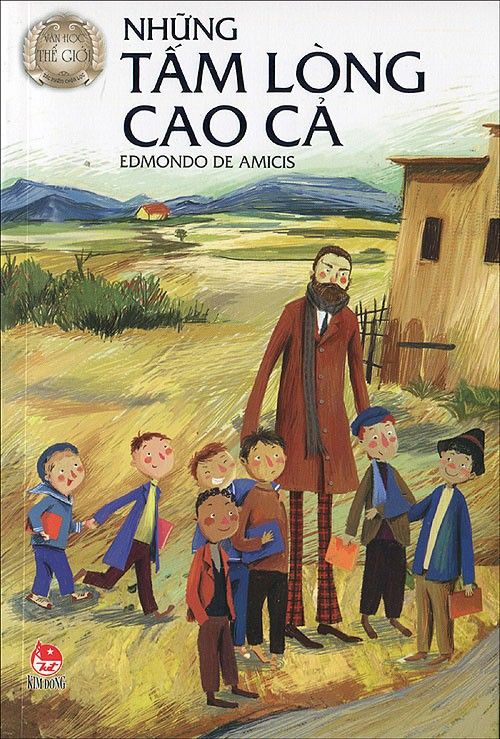
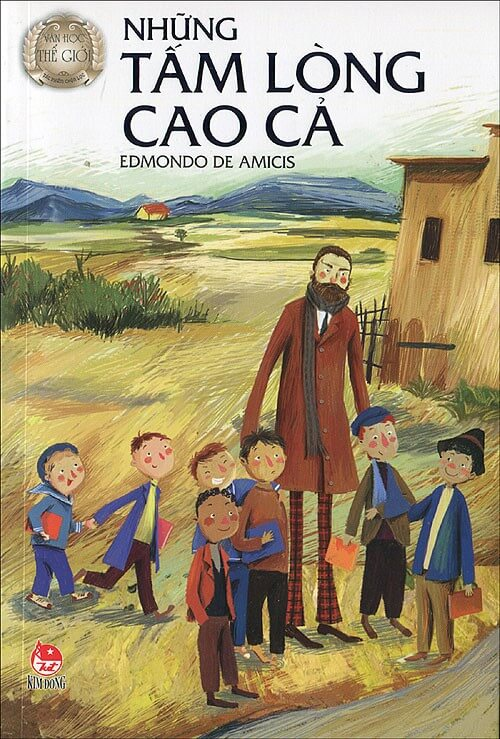
a

Changed region(s): [[0.06, 0.8714, 0.12, 0.9337], [0.3, 0.6536, 0.33, 0.6847]]

diff --git a/index.html b/index.html
@@ -6,7 +6,7 @@
   <title>Sách Mê</title>
 </head>
 
-<body style="background-image: url('nen.png'); background-size: cover;">
+<body style="background-image: url('nen.webp'); background-size: cover;">
   <div style="padding-top: 20px; border-radius: 20px;">
     <table width="1174" border="1" bordercolor="#FFFFFF" align="center" style="font-size: 30px;">
       <tbody>
@@ -29,21 +29,21 @@
 
 
   <div style="padding-left: 10%; padding-top:20px; align-items: center">
-    <a href="BaiDang/hoangtube/hoangtube.html"><img src="./BaiDang/hoangtube/hoangtube.jpg" alt="Hoàng Tử Bé"
+    <a href="BaiDang/hoangtube/hoangtube.html"><img src="./BaiDang/hoangtube/hoangtube.webp" alt="Hoàng Tử Bé"
         width="200" title="Hoàng Tử Bé" style=" padding-right: 40px"></a>
 
 
-    <a href="BaiDang/gmtn/giaimatainang.html"><img src="./BaiDang/gmtn/gmtn.jpg" alt="Giải Mã Tài Năng" width="200"
+    <a href="BaiDang/gmtn/giaimatainang.html"><img src="./BaiDang/gmtn/gmtn.webp" alt="Giải Mã Tài Năng" width="200"
         height="290" title="Giải Mã Tài Năng" style="padding-right: 50px"></a>
 
 
-    <a href="BaiDang/bgcc/bgcc.html"><img src="./BaiDang/bgcc/baigiangcuoicung.jpg" alt="Bài Giảng Cuối Cùng"
+    <a href="BaiDang/bgcc/bgcc.html"><img src="./BaiDang/bgcc/baigiangcuoicung.webp" alt="Bài Giảng Cuối Cùng"
         width="200" height="290" title="Bài Giảng Cuối Cùng" style="padding-right: 50px"></a>
 
-    <a href="BaiDang/nnkk/nnkk.html"><img src="./BaiDang/nnkk/nnkk1.jpg" alt="Những Người Khốn Khổ" width="200"
+    <a href="BaiDang/nnkk/nnkk.html"><img src="./BaiDang/nnkk/nnkk1.webp" alt="Những Người Khốn Khổ" width="200"
         height="290" title="Những Người Khốn Khổ" style="padding-right: 50px"></a>
 
-    <a href="BaiDang/ntlcc/ntlcc.html"><img src="./BaiDang/ntlcc/ntlcc.jpg" alt="Những Tấm Lòng Cao Cả" width="200"
+    <a href="BaiDang/ntlcc/ntlcc.html"><img src="./BaiDang/ntlcc/ntlcc.webp" alt="Những Tấm Lòng Cao Cả" width="200"
         height="290" title="Những Tấm Lòng Cao Cả" style="padding-right: 50px"></a>
 
   </div>

diff --git a/BaiDang/nnkk/nnkk.html b/BaiDang/nnkk/nnkk.html
@@ -13,7 +13,7 @@
 		<div style="display: flex;
         align-items: flex-start;
         margin-top: 20px;">
-			<img src="./nnkk1.jpg" alt="Những người khốn khổ" width="200" height="300" style="padding-right: 20px; ">
+			<img src="./nnkk1.webp" alt="Những người khốn khổ" width="200" height="300" style="padding-right: 20px; ">
 
 			<p>
 				<font size="+3" style="margin-top: 40px"><b>Những người khốn khổ</b></font> <br> <br> <b>Tác Giả:</b>

diff --git a/BaiDang/ntlcc/ntlcc.html b/BaiDang/ntlcc/ntlcc.html
@@ -13,7 +13,7 @@
 		<div style="display: flex;
         align-items: flex-start;
         margin-top: 20px;">
-			<img src="ntlcc.jpg" alt="Những Tấm Lòng Cao Cả" width="200" height="300" style="padding-right: 20px; ">
+			<img src="ntlcc.webp" alt="Những Tấm Lòng Cao Cả" width="200" height="300" style="padding-right: 20px; ">
 
 			<p>
 				<font size="+3" style="margin-top: 40px"><b>Những Tấm Lòng Cao Cả</b></font> <br> <br> <b>Tác Giả:</b>

diff --git a/BaiDang/gmtn/giaimatainang.html b/BaiDang/gmtn/giaimatainang.html
@@ -13,7 +13,7 @@
 		<div style="display: flex;
         align-items: flex-start;
         margin-top: 20px;">
-			<img src="gmtn.jpg" alt="Giải Mã Tài Năng" width="200" height="300" style="padding-right: 20px; ">
+			<img src="gmtn.webp" alt="Giải Mã Tài Năng" width="200" height="300" style="padding-right: 20px; ">
 
 			<p>
 				<font size="+3" style="margin-top: 40px"><b>Giải Mã Tài Năng</b></font> <br> <br> <b>Tác Giả:</b> Geoff

diff --git a/BaiDang/hoangtube/hoangtube.html b/BaiDang/hoangtube/hoangtube.html
@@ -13,7 +13,7 @@
 		<div style="display: flex;
         align-items: flex-start;
         margin-top: 20px;">
-			<img src="hoangtube.jpg" alt="Hoàng Tử Bé" width="200" height="300" style="padding-right: 20px; ">
+			<img src="hoangtube.webp" alt="Hoàng Tử Bé" width="200" height="300" style="padding-right: 20px; ">
 
 			<p>
 				<font size="+3" style="margin-top: 40px"><b>Hoàng Tử Bé</b></font> <br> <br> <b>Tác Giả:</b> Antoine de

diff --git a/BaiDang/bgcc/bgcc.html b/BaiDang/bgcc/bgcc.html
@@ -13,7 +13,7 @@
 		<div style="display: flex;
         align-items: flex-start;
         margin-top: 20px;">
-			<img src="./baigiangcuoicung.jpg" alt="Bài Giảng Cuối Cùng" width="200" height="300"
+			<img src="./baigiangcuoicung.webp" alt="Bài Giảng Cuối Cùng" width="200" height="300"
 				style="padding-right: 20px; ">
 
 			<p>
